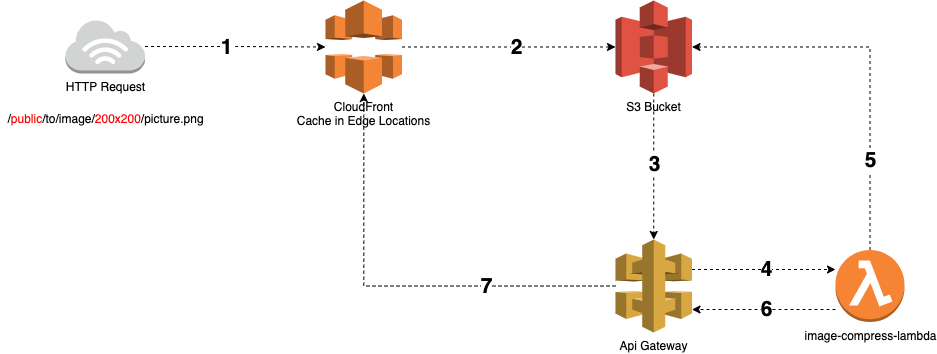
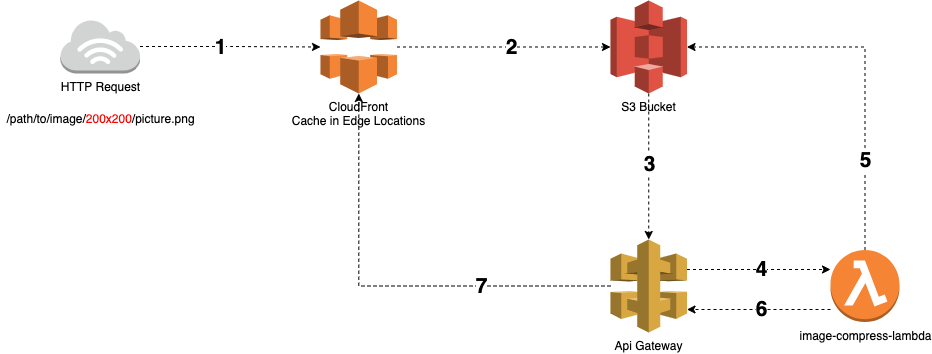
updated readme

diff --git a/README.md b/README.md
@@ -1,12 +1,14 @@
-# Image compress lambda
+# image-compress-lambda
 Node.js AWS lambda handler for compressing and resizing images on the fly.
 
 The aim of this project is to provide a function which shrinks and compresses images on the fly, using S3 as
 data repository.
 
-[![License: GNU](https://img.shields.io/badge/License-GNU-blue.svg)](https://www.gnu.org/licenses/gpl-3.0.en.html)
-[![types](https://img.shields.io/npm/types/culqi-node)]()
+[![nodejs](https://badges.aleen42.com/src/node.svg)](https://nodejs.org/)
+[![types](https://badges.aleen42.com/src/typescript.svg)](https://www.typescriptlang.org/)
+[![lint](https://badges.aleen42.com/src/eslint.svg)](https://eslint.org/)
 [![code style: prettier](https://img.shields.io/badge/code_style-prettier-ff69b4.svg)](https://github.com/prettier/prettier)
+[![License: GNU](https://img.shields.io/badge/License-GNU-blue.svg)](https://www.gnu.org/licenses/gpl-3.0.en.html)
 
 ## Stack
 
@@ -21,12 +23,12 @@ it with the S3 bucket.
 ![architecture](resources/image-compress-lambda-architecture.png?raw=true)
 
 1. The HTTP request first lands on Cloudfront which will perform ssl termination and cache for the s3 objects.
-   The format will be something like this: `<path>/<dimensions>/<filename>`. **(NOTE #1)**
+   The format will be something like this: `<path>/<dimensions>/<filename>`.
    For example: `/some/public/path/200x200/picture_1618444089.jpg`.
 
 2. Cloudfront later will perform a reverse proxy to the S3 object website url.
 
-3. If the object is present in the bucket (404), then it is returned. Otherwise, it will redirect to the API Gateway. **(NOTE #2)** **(NOTE #3)**
+3. If the object is present in the bucket (404), then it is returned. Otherwise, it will redirect to the API Gateway. **(NOTE #1)** **(NOTE #2)**
 
 4. The API Gateway will perform a call (invoke) to the aws lambda function.
 
@@ -43,28 +45,24 @@ it with the S3 bucket.
 
 ### NOTE 1
 
-### NOTE 2
-
 Do not forget to configure the S3 redirect rules when the object is absent (404). The rule would be something like this:
 
 ```json
 [
   {
     "Condition": {
-      "HttpErrorCodeReturnedEquals": "404",
-      "KeyPrefixEquals": "public"
+      "HttpErrorCodeReturnedEquals": "404"
     },
     "Redirect": {
       "HostName": "<api_gateway_id>.execute-api.<region>.amazonaws.com",
       "HttpRedirectCode": "307",
-      "Protocol": "https",
-      "ReplaceKeyPrefixWith": "local/public"
+      "Protocol": "https"
     }
   }
 ]
 ```
 
-### NOTE 3
+### NOTE 2
 
 There might be a small (big) inconvenient that will cause an infinite loop.
 
